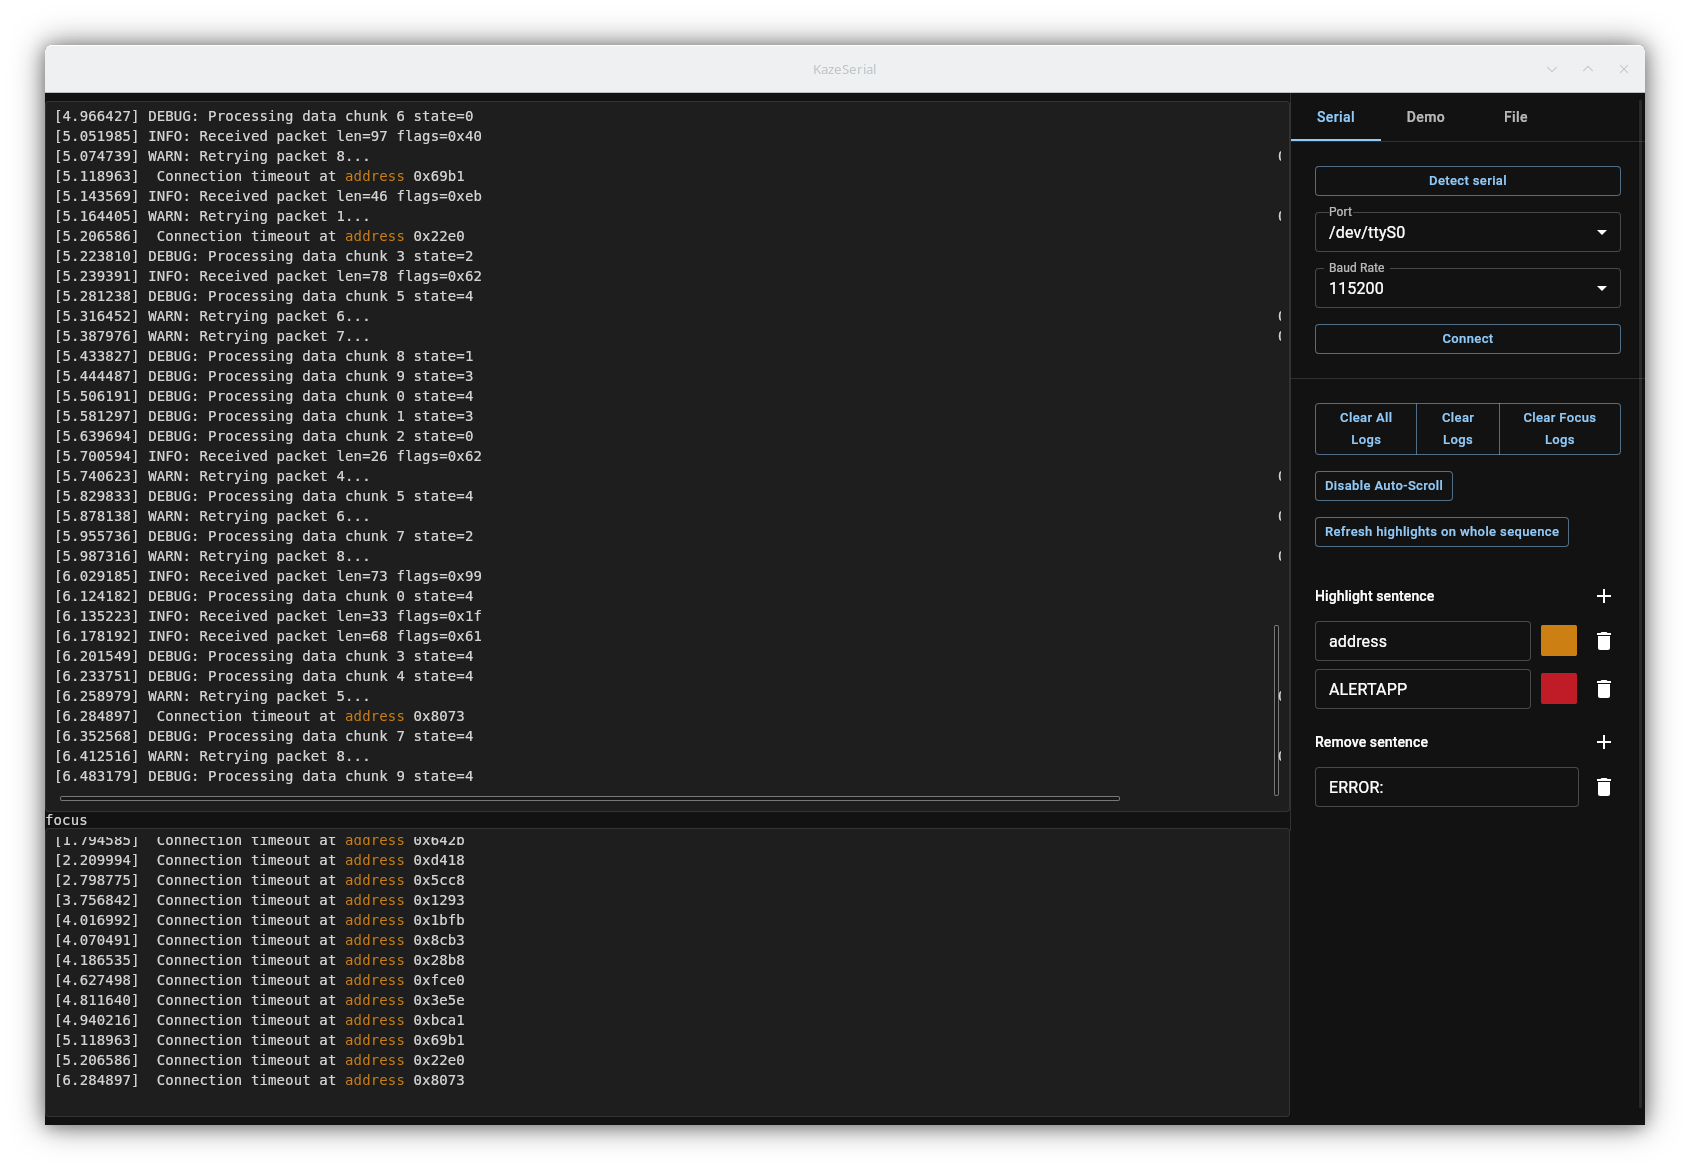
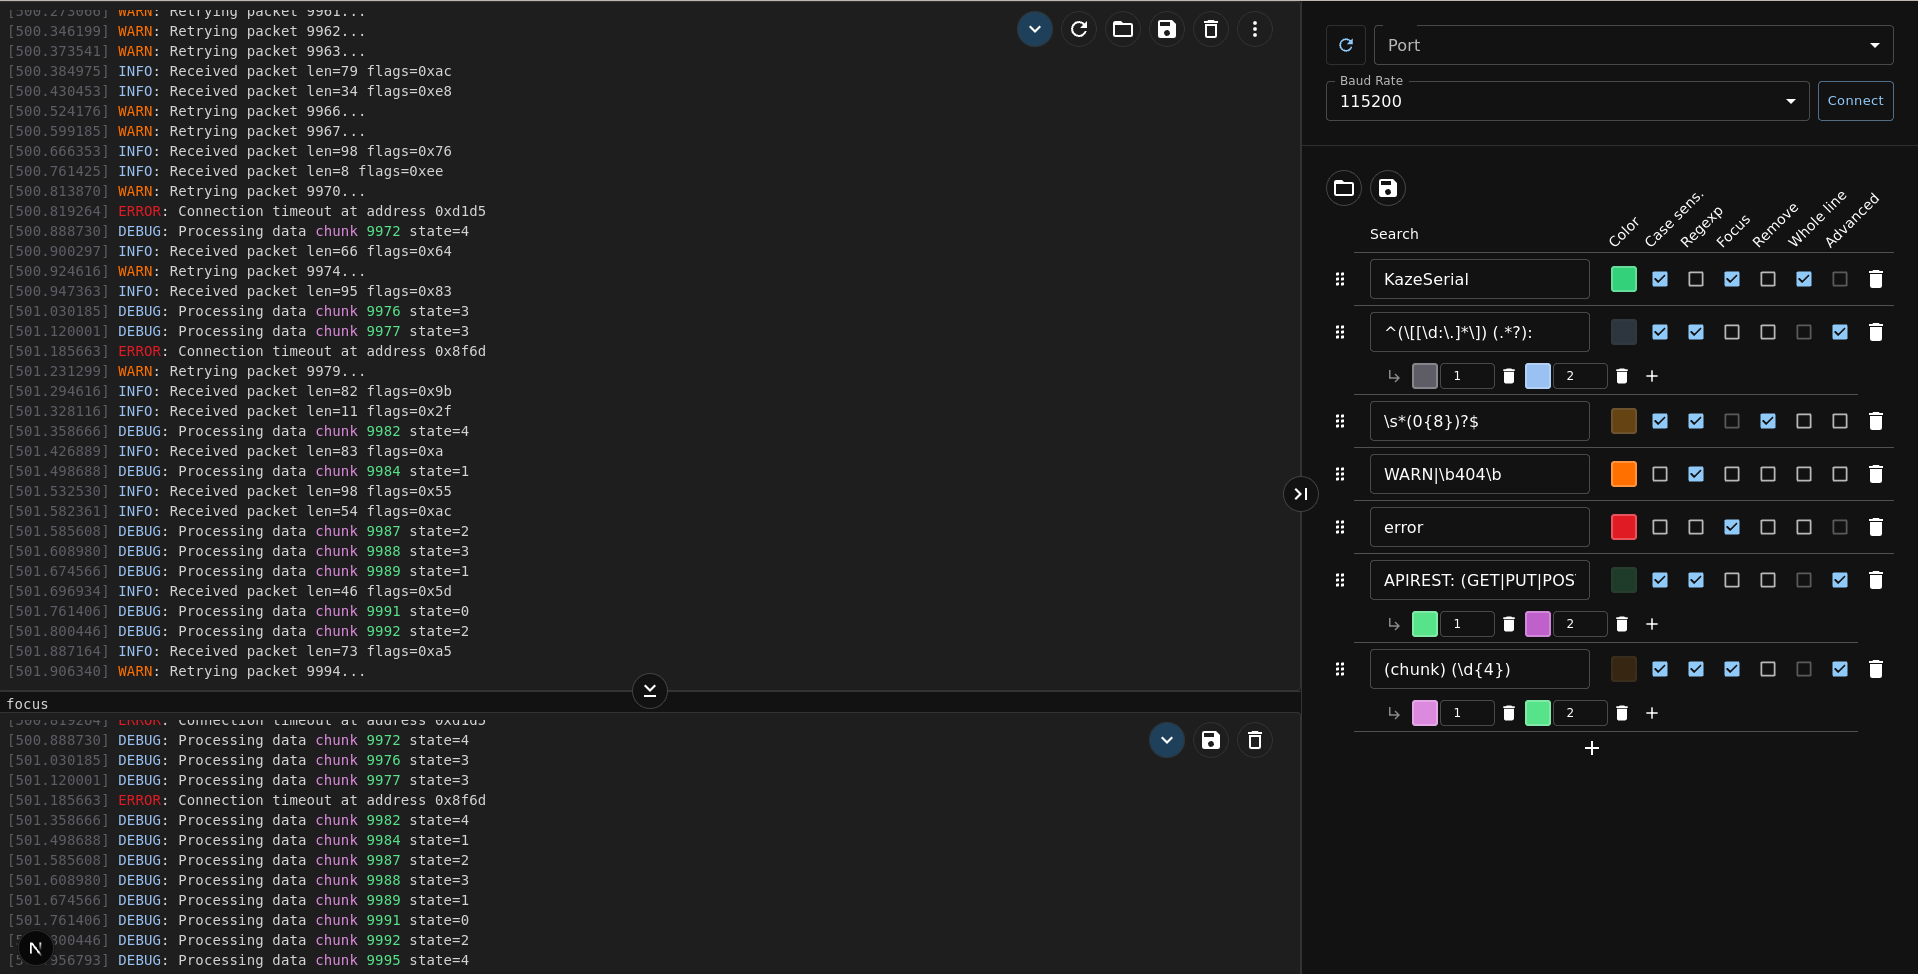
update readme

diff --git a/README.md b/README.md
@@ -1,14 +1,8 @@
 # Kaze Serial
 
-**A modern serial terminal with advanced, yet easy, highlighting features !**
+**A modern serial terminal with advanced, yet easy, on the fly, highlighting features !**
 
-Kaze Serial is a modern, (should be) high-performance serial terminal application built with **Tauri**, **Next.js**, and **React**. It provides a sleek interface for monitoring serial ports, with advanced features like regex-based highlighting and split-view analysis.
-
-Since I work as an embedded software developper, most of my work time consist of looking on serial monitor for debug purpose.
-I used to work a lot with minicom and more recently with [Serial Monitor Rust](https://github.com/hacknus/serial-monitor-rust).
-Highlight features on Serial Monitor Rust was not his main purpose and i'm not so confident with EGUI framework.  
-Since I wanted to learn React, i did this simple project, and of course Copilot and LLM agent help me a lot for bootstraping this project.
-
+Kaze Serial is a modern, high-performance serial terminal application built with **Tauri**, **Next.js**, and **React**. It provides a sleek interface for monitoring serial ports, with advanced log exploration features
 
 ![Application Screenshot](screenshot.png)
 
@@ -22,13 +16,21 @@ Since I wanted to learn React, i did this simple project, and of course Copilot 
   - Auto-scroll with pause-on-hover/scroll-up capability.
   - Clicking on a row of focus view will scroll the main log view to this element
 - **Advanced Analysis**:
-  - **Regex Highlighting**: Define custom regex patterns to highlight specific log messages with custom colors.
+  - **Highlighting**: Define custom search patterns to highlight specific log messages with custom colors. Patterns can be:
+    - Simple search
+    - Case sensitive search
+    - Regexp search
+    - Entire line selection
   - **Split View**: A secondary "Focus" terminal to isolate matched logs or view different parts of the stream.
   - **Sentence removal**: Remove garbage by sentence matching 
 - **Export/import**:
-  - **export**: Export raw log (without highligh and sentence removal applied) to a file
-  - **import**: Re-import previous log file
-- **Cross-Platform**: Runs on Linux and Windows, not tested so far on macOS (powered by Tauri).
+  - **export**: 
+    - Export raw log (without highligh and sentence removal applied) to a file
+    - Export the patterns for future use
+  - **import**: 
+    - Re-import previous log file
+    - Re-import previous patterns 
+- **Cross-Platform**: Runs on Linux and windows, not tested so far on macOS (powered by Tauri).
 
 ## Tech Stack
 
@@ -78,6 +80,12 @@ The output binary/installer will be located in `src-tauri/target/release/bundle/
 ## Configuration
 
 - **Highlights**: Highlight settings are automatically saved to `highlight_settings.json` in the application configuration directory.
+
+## Background
+Since I work as an embedded software developper, most of my work time consist of looking on serial monitor for debug purpose.
+I used to work a lot with minicom and more recently with [Serial Monitor Rust](https://github.com/hacknus/serial-monitor-rust).
+Highlight features on Serial Monitor Rust was not his main purpose and i'm not so confident with EGUI framework.  
+Since I wanted to learn React, i did this simple project, and of course Copilot and LLM agent help me a lot for bootstraping this project
 
 ## License
 
